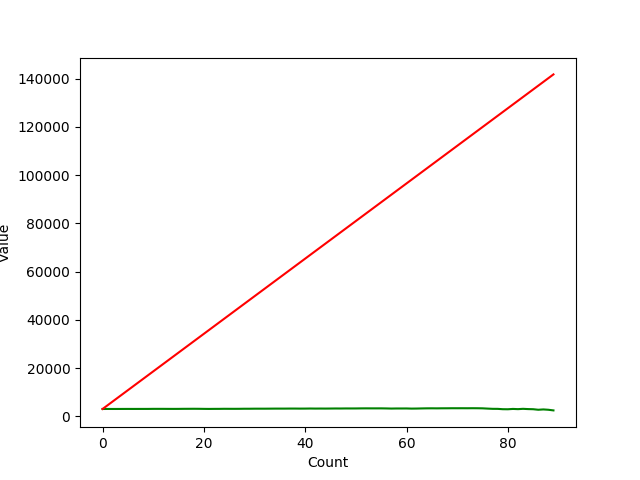
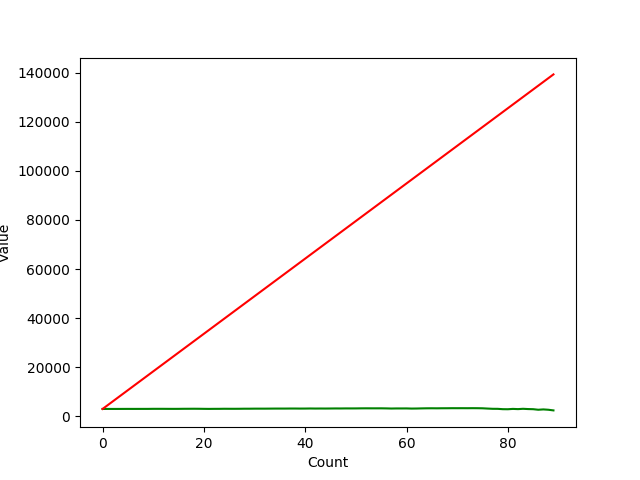
Automated Commision

diff --git a/prediction/sequential.py b/prediction/sequential.py
@@ -37,13 +37,15 @@ def regression_momentum_bias(timeseries, observation_range):
         if timeseries.raw_datapoint(i) > high:
             high = timeseries.raw_datapoint(i)
             high_index = i
-        elif timeseries.raw_datapoint(i) < low:
+        if timeseries.raw_datapoint(i) < low:
             low = timeseries.raw_datapoint(i)
             low_index = i
     
-    high_low_slope = (timeseries.raw_datapoint(high_index) - timeseries.raw_datapoint(low_index)) / abs(high_index - low_index)
-
-    print("SLOPE = ", high_low_slope)
+    high_low_slope = 0.00
+    if high_index > low_index:
+        high_low_slope = (timeseries.raw_datapoint(high_index) - timeseries.raw_datapoint(low_index)) / abs(high_index - low)
+    else:
+        high_low_slope = (timeseries.raw_datapoint(low_index) - timeseries.raw_datapoint(high_index)) / abs(high_index - low)
 
     slope = (end_point_bias + high_low_slope) / 2
     line = [i * slope + end_point_bias for i in range(timeseries.raw_size())]
